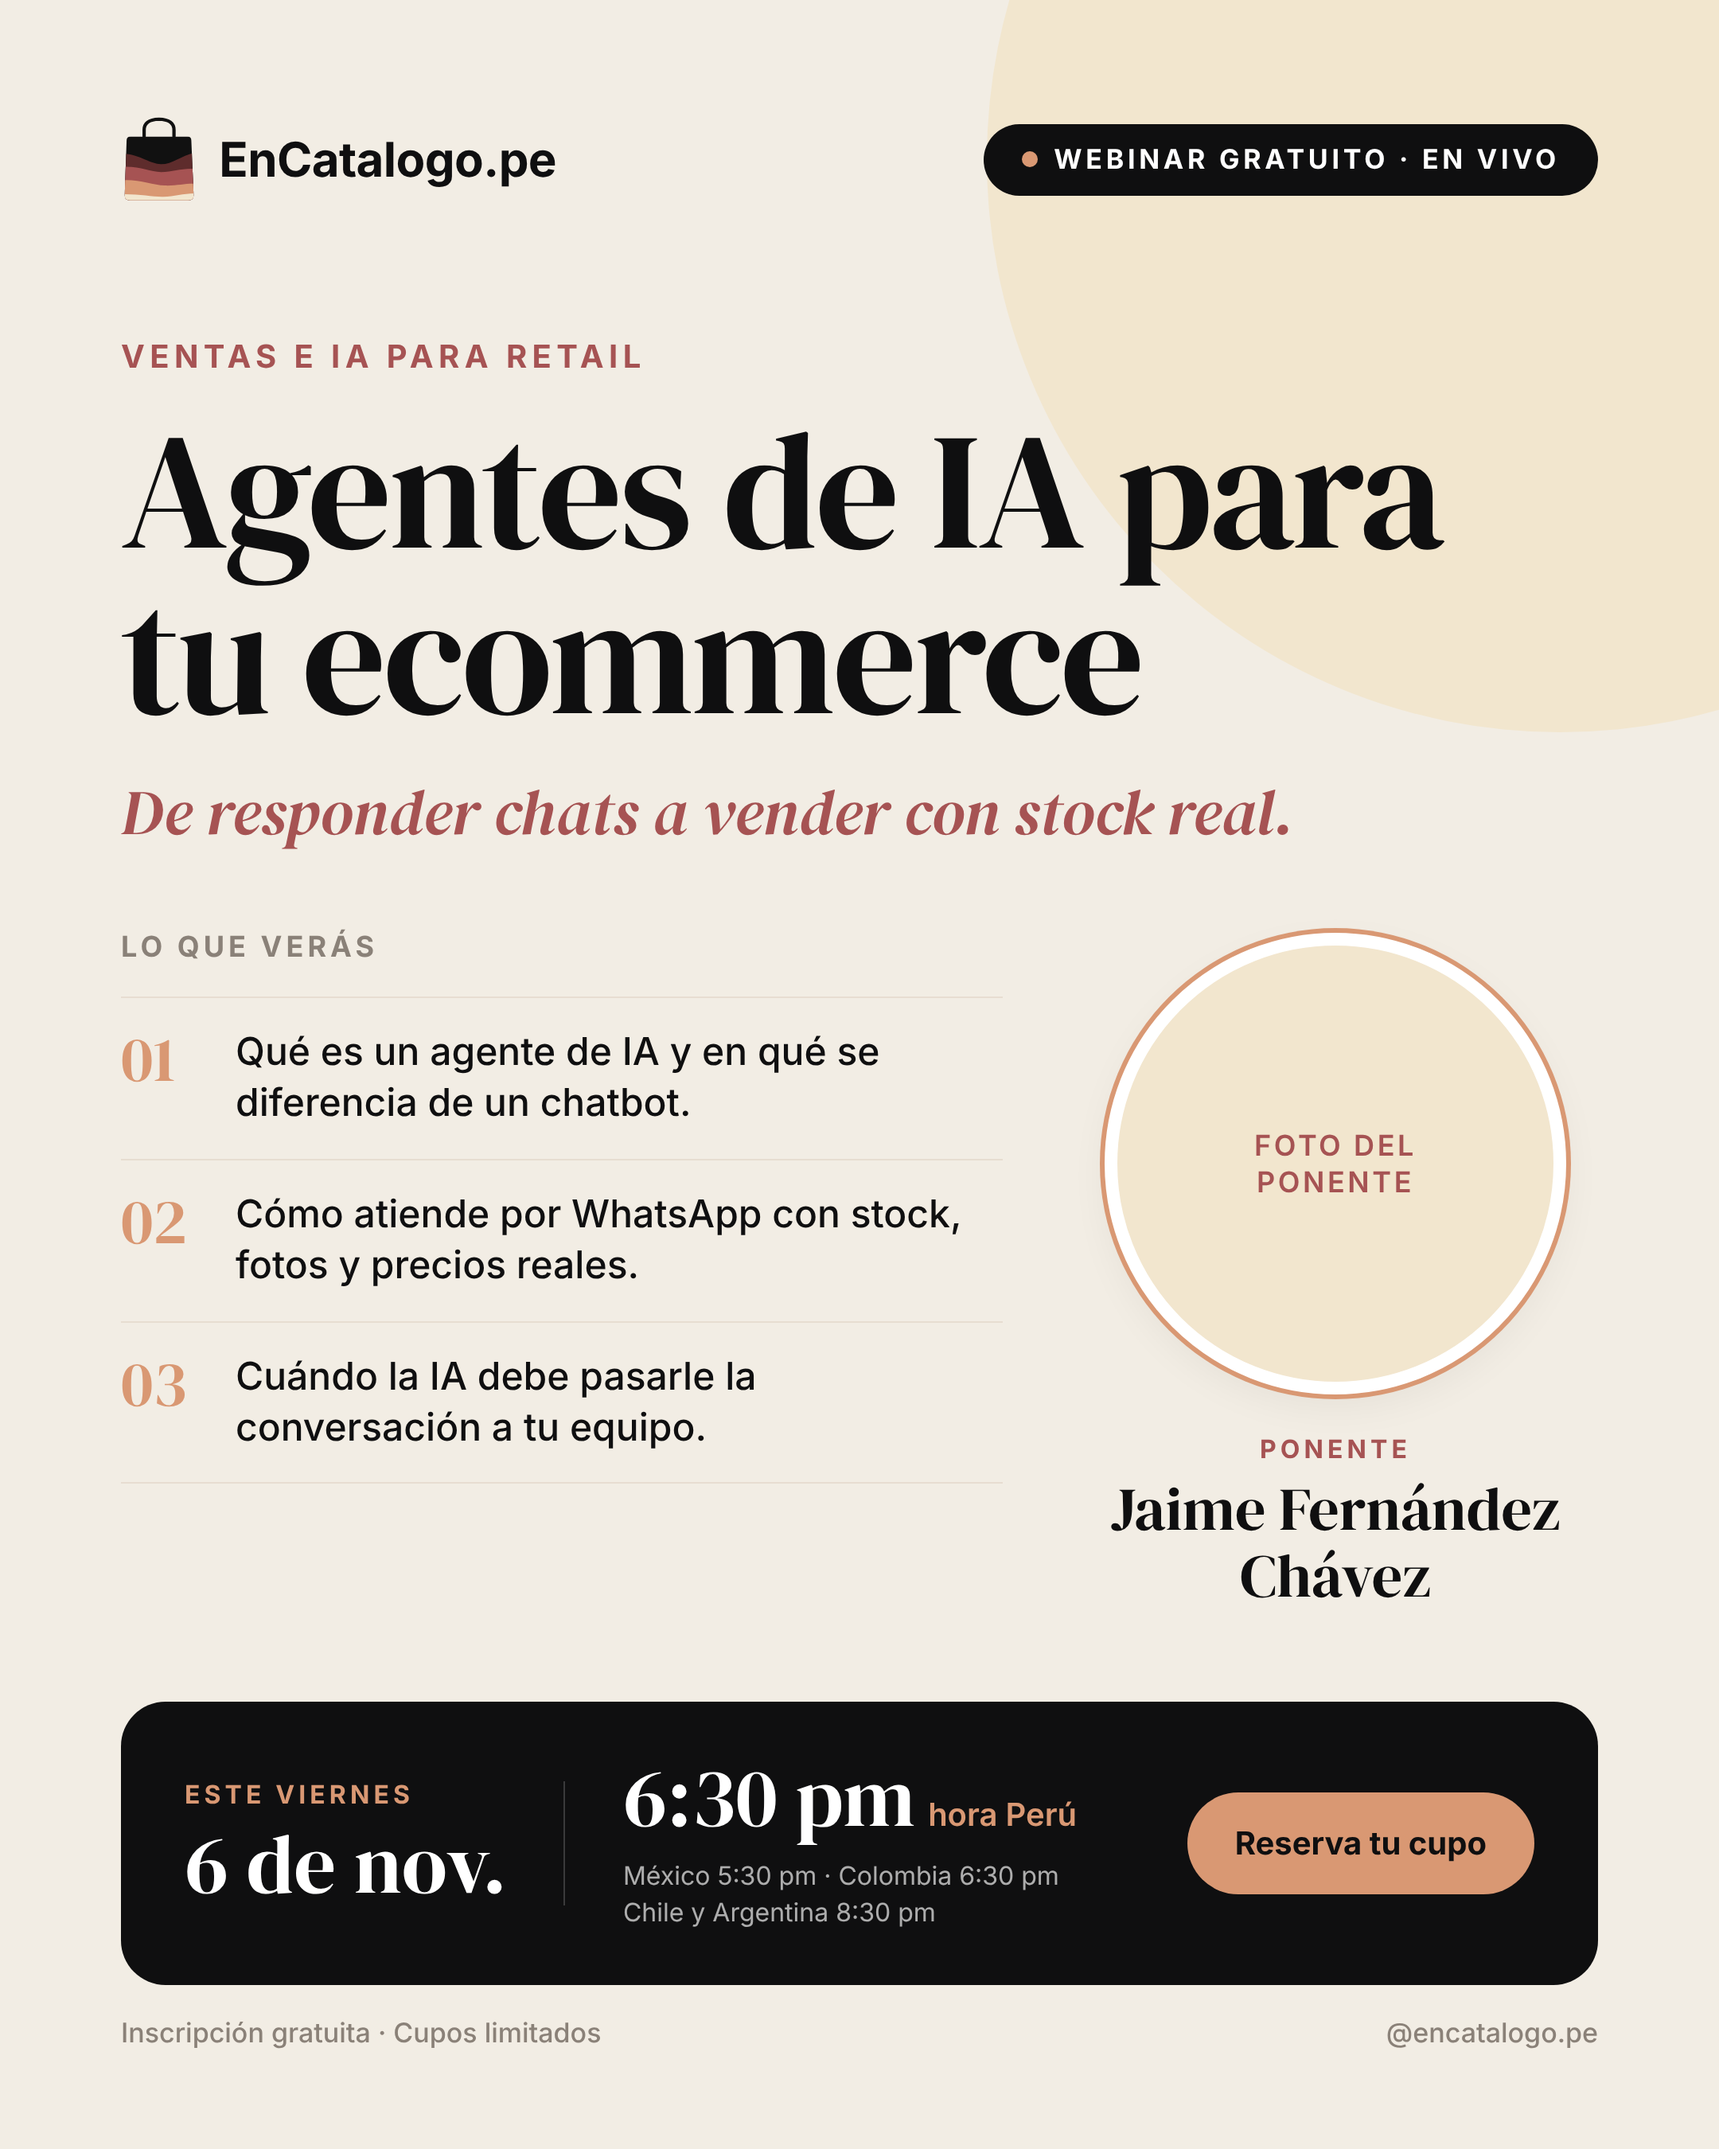
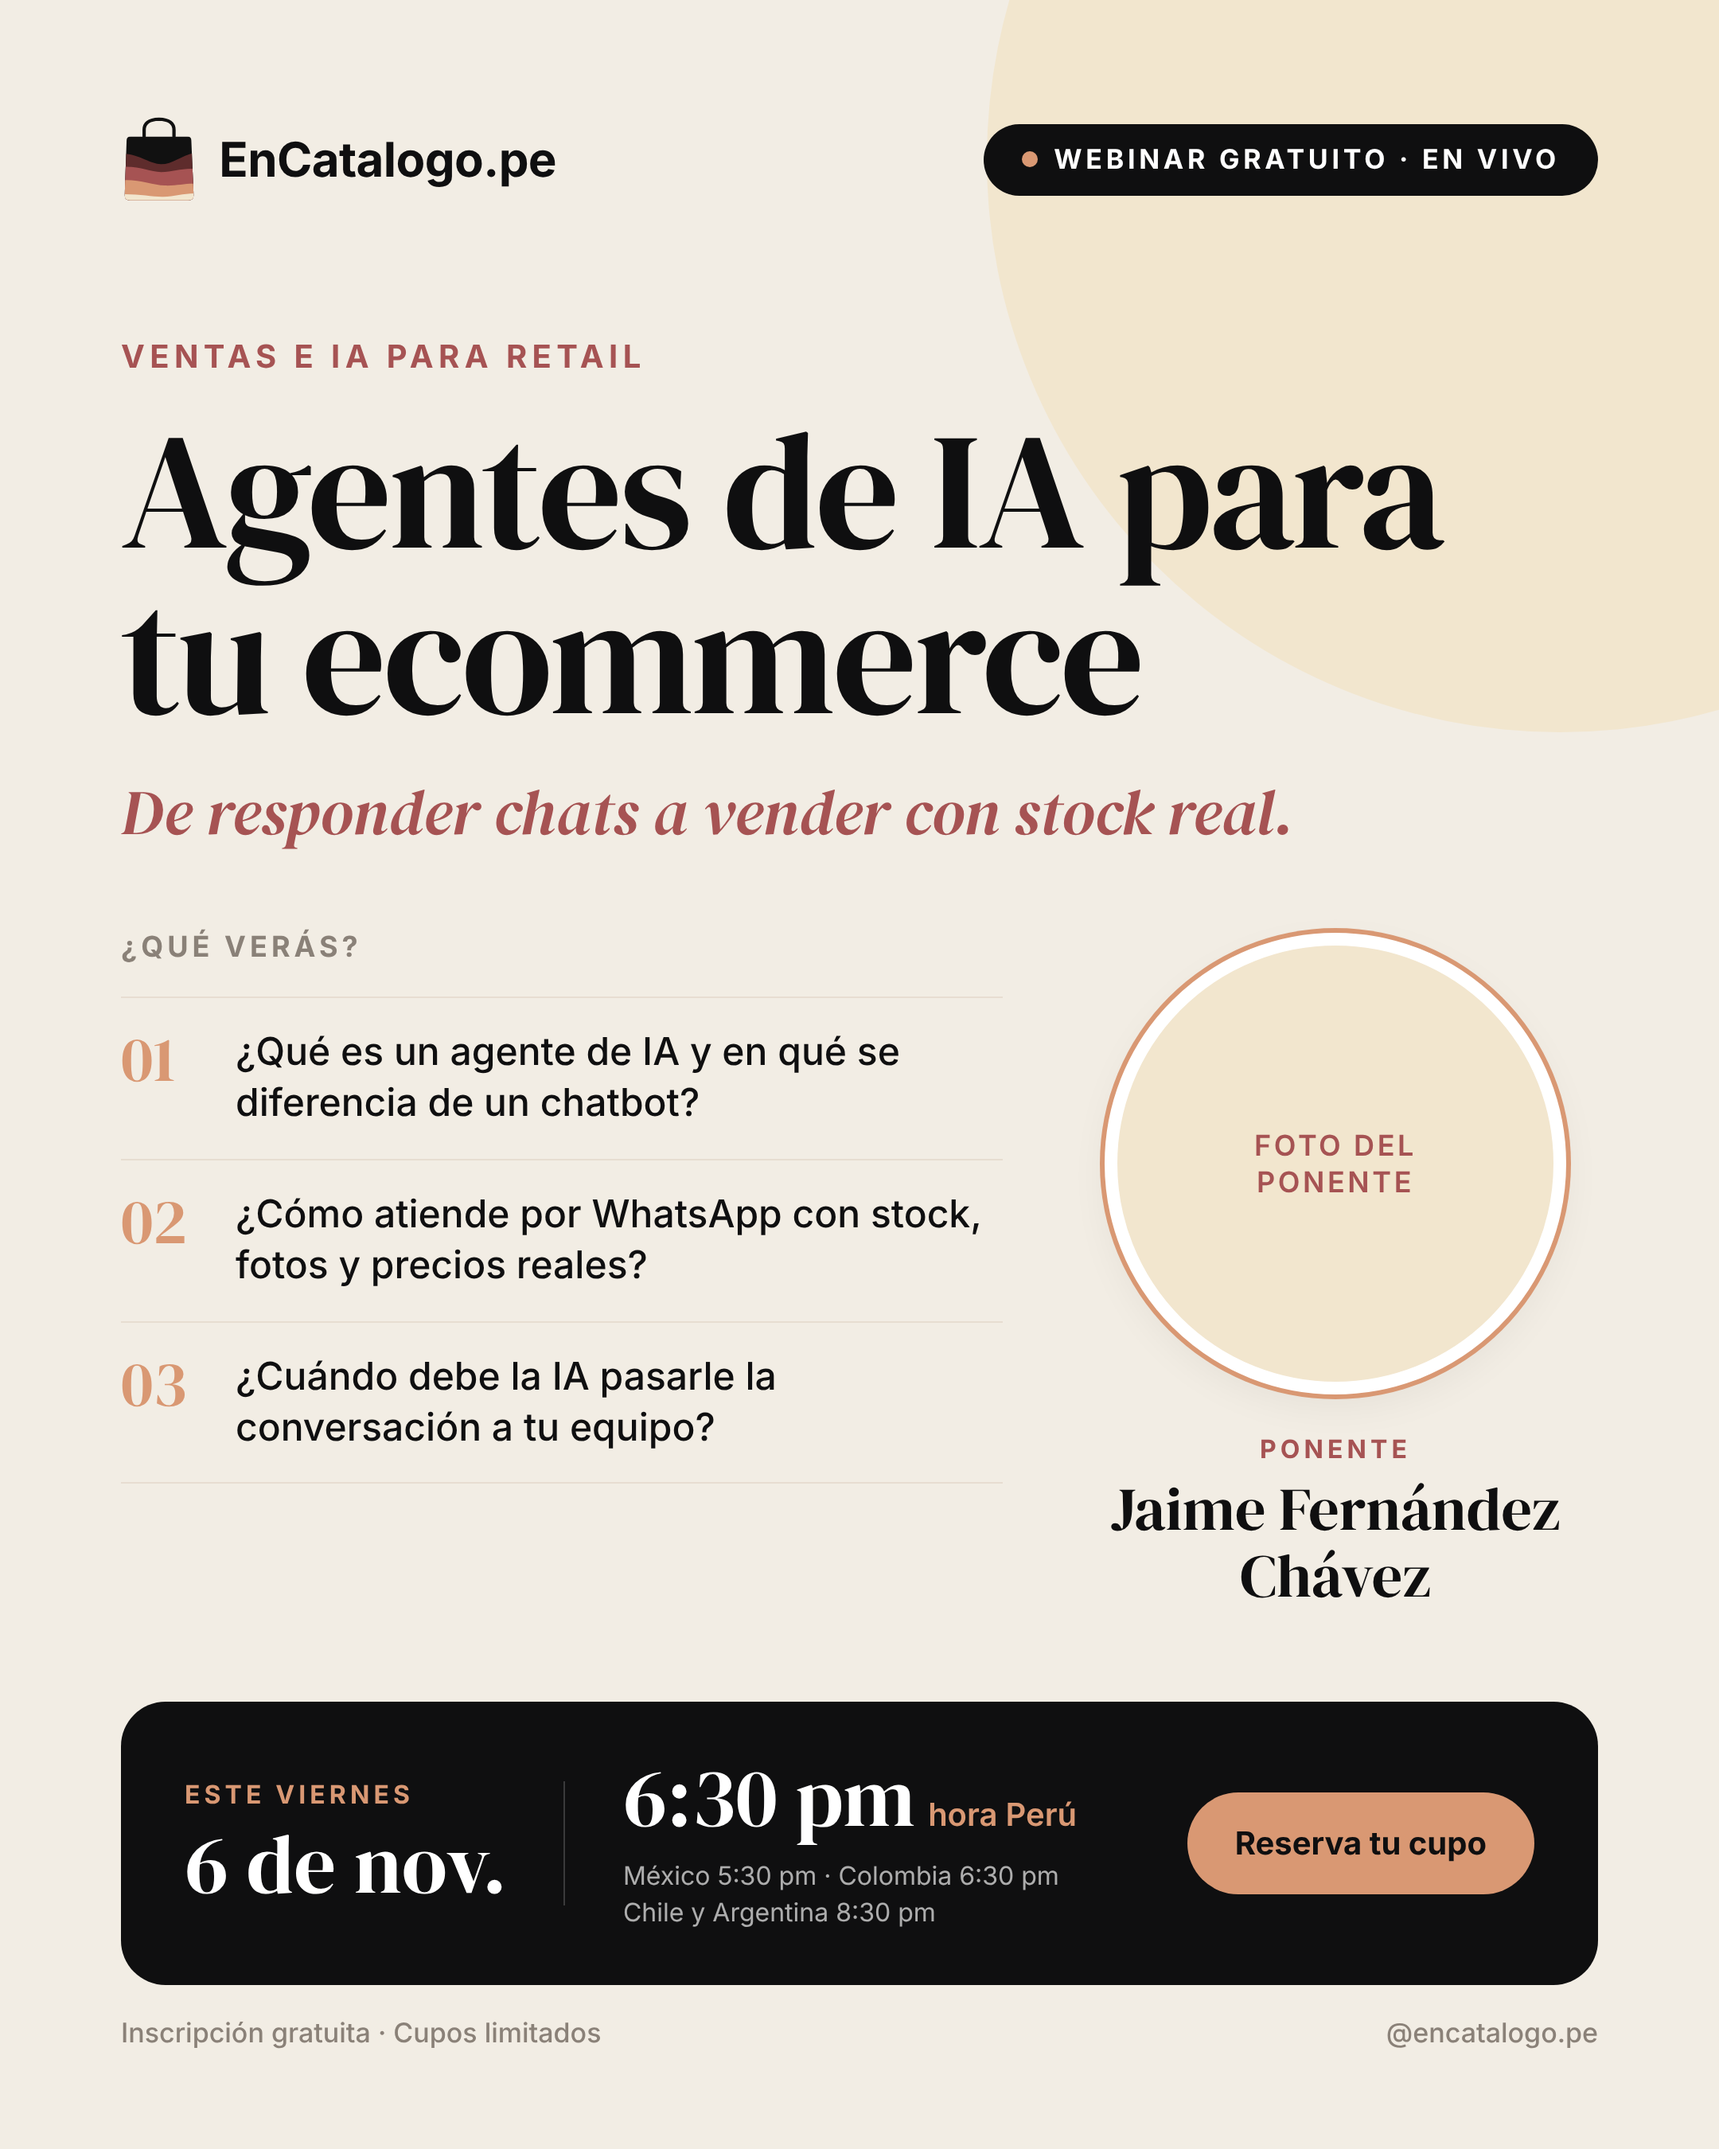
Flyer webinar: temas como preguntas con signos ¿?
Claude-Session: https://claude.ai/code/session_013TcxtorVcswT8d55UEdvDD

Changed region(s): [[0.0931, 0.4356, 0.5273, 0.4978], [0.1241, 0.56, 0.5583, 0.5911], [0.1241, 0.6222, 0.4653, 0.6533]]

diff --git a/flyers/webinar-agentes-ia/flyer.html b/flyers/webinar-agentes-ia/flyer.html
@@ -73,10 +73,10 @@
 
   <div class="mid">
     <div class="learn">
-      <h2>Lo que verás</h2>
-      <div class="item"><span class="num">01</span><p>Qué es un agente de IA y en qué se diferencia de un chatbot.</p></div>
-      <div class="item"><span class="num">02</span><p>Cómo atiende por WhatsApp con stock, fotos y precios reales.</p></div>
-      <div class="item"><span class="num">03</span><p>Cuándo la IA debe pasarle la conversación a tu equipo.</p></div>
+      <h2>¿Qué verás?</h2>
+      <div class="item"><span class="num">01</span><p>¿Qué es un agente de IA y en qué se diferencia de un chatbot?</p></div>
+      <div class="item"><span class="num">02</span><p>¿Cómo atiende por WhatsApp con stock, fotos y precios reales?</p></div>
+      <div class="item"><span class="num">03</span><p>¿Cuándo debe la IA pasarle la conversación a tu equipo?</p></div>
     </div>
     <div class="speaker">
       <div class="photo" id="photo">Foto del<br>ponente</div>
